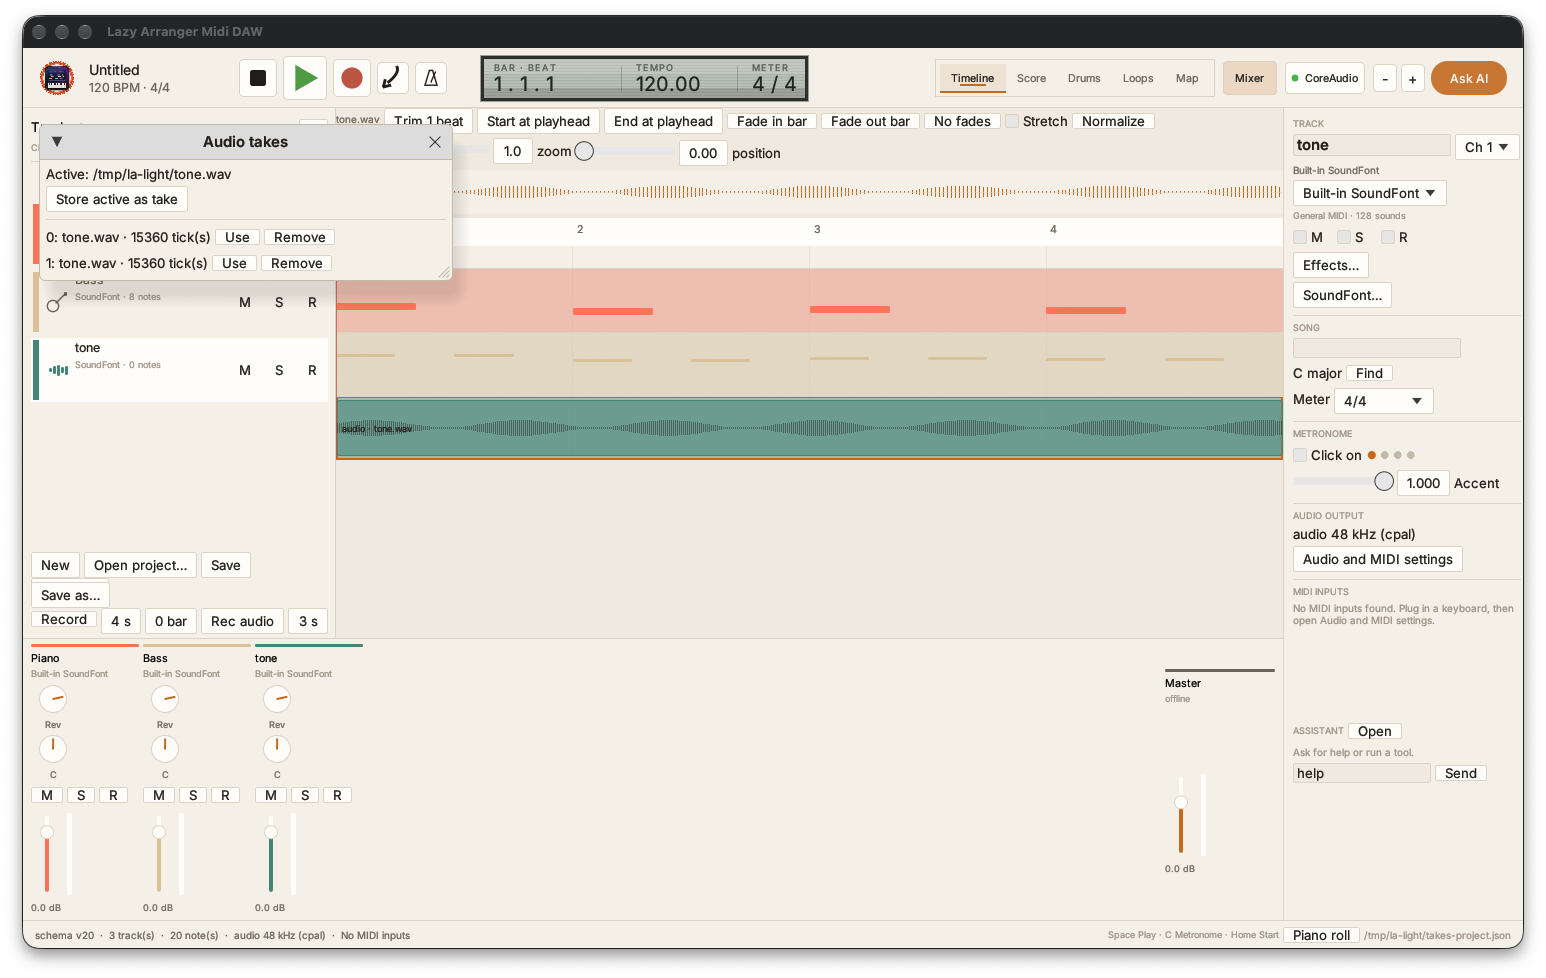
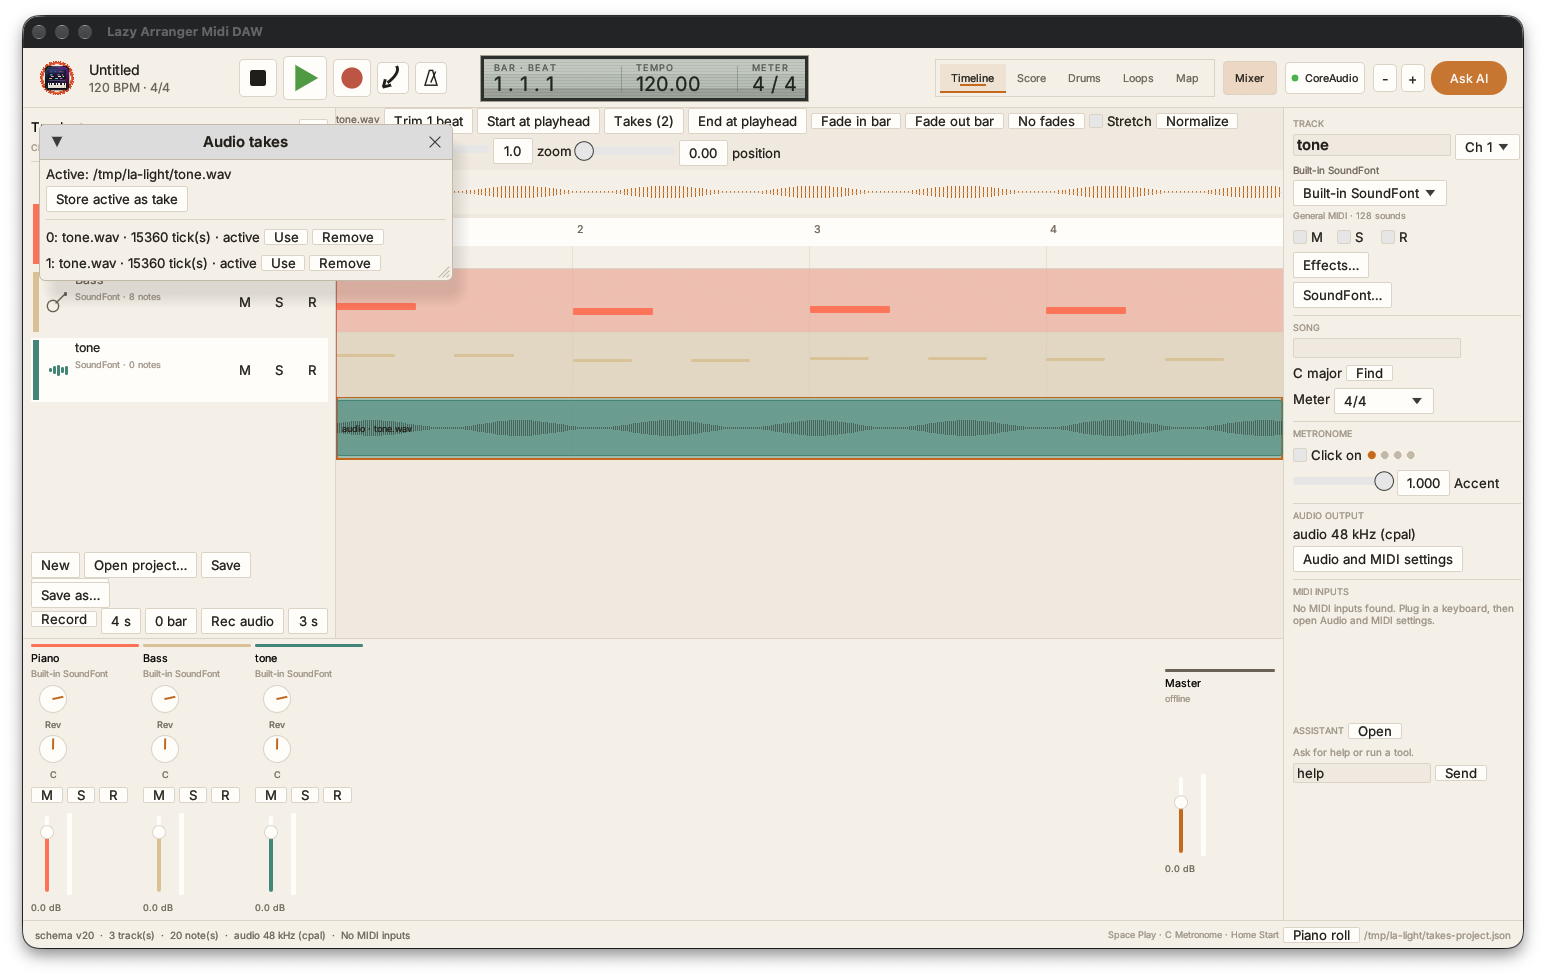
feat(audio): mark the active stored take
The take list labels the reference currently on the track.

770 tests pass; clippy, fmt and rustdoc clean.

Changed region(s): [[0.4036, 0.092, 0.8072, 0.1534], [0.1242, 0.2147, 0.2484, 0.2761]]

diff --git a/apps/desktop/src/app.rs b/apps/desktop/src/app.rs
@@ -4036,7 +4036,14 @@ impl ShellApp {
                             .file_name()
                             .and_then(|name| name.to_str())
                             .unwrap_or(&take.path);
-                        ui.label(format!("{index}: {name} · {} tick(s)", take.length));
+                        let is_active = active.as_ref().is_some_and(|reference| {
+                            reference.path == take.path && reference.start == take.start
+                        });
+                        ui.label(format!(
+                            "{index}: {name} · {} tick(s){}",
+                            take.length,
+                            if is_active { " · active" } else { "" }
+                        ));
                         if ui.small_button("Use").clicked() {
                             action = Some((index, 1));
                         }

diff --git a/docs/audit/final-status.md b/docs/audit/final-status.md
@@ -186,6 +186,6 @@ For the clef layout, choose either four measures per system without clefs
 - Mixer/bus meters use cached waveform peaks for audio tracks (approximate by clip fraction); waveform caching now runs in every view.
 - Audio-reference offset is render-tested against a half-silent source.
 - Audio-reference stretch is render-tested with a ramp source.
-- Audio takes can be stored, used and removed from a small window opened by the trim-row Takes button or the Windows menu; recording auto-stores the replaced take (`docs/audit/audio-takes.png`).
+- Audio takes mark the active take and can be stored, used and removed from a small window opened by the trim-row Takes button or the Windows menu; recording auto-stores the replaced take (`docs/audit/audio-takes.png`).
 - MCP get_audio_ref reports stored takes and set_audio_ref accepts them; a registry/handler coverage test now fails if a tool has no match arm.
 - Stored audio takes round-trip through JSON; a project without the field loads an empty list.

diff --git a/README.md b/README.md
@@ -49,13 +49,13 @@ section below is a row, so nothing is skipped. Status: **verified**,
 
 ## Scorecard
 
-39 sections at round 433: 0 fully verified beyond their Rust subset, 39 partial,
+39 sections at round 434: 0 fully verified beyond their Rust subset, 39 partial,
 0 missing. No section is missing at row level, but several rows are partial
 because they need hardware, proprietary formats, plugin editors or a model.
 The deepest partials are styles, full score, plugin editors, L6max device pages,
 Korg PCG, built-in speech/model services and hardware acceptance.
 
-## State at round 433
+## State at round 434
 
 `cargo fmt`, `clippy -D warnings`, `cargo test --workspace` (**770 tests**) and
 rustdoc pass. A macOS bundle script creates an ad-hoc-signed
